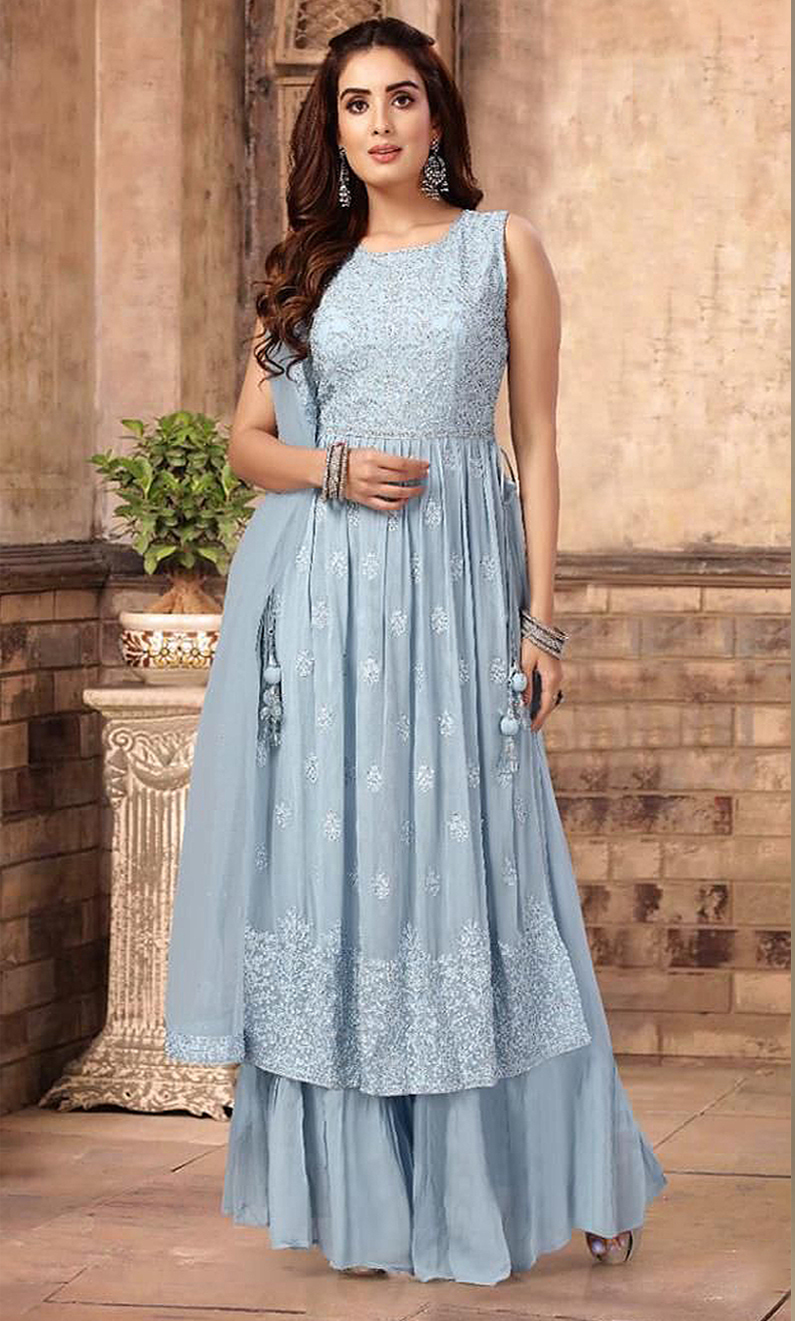
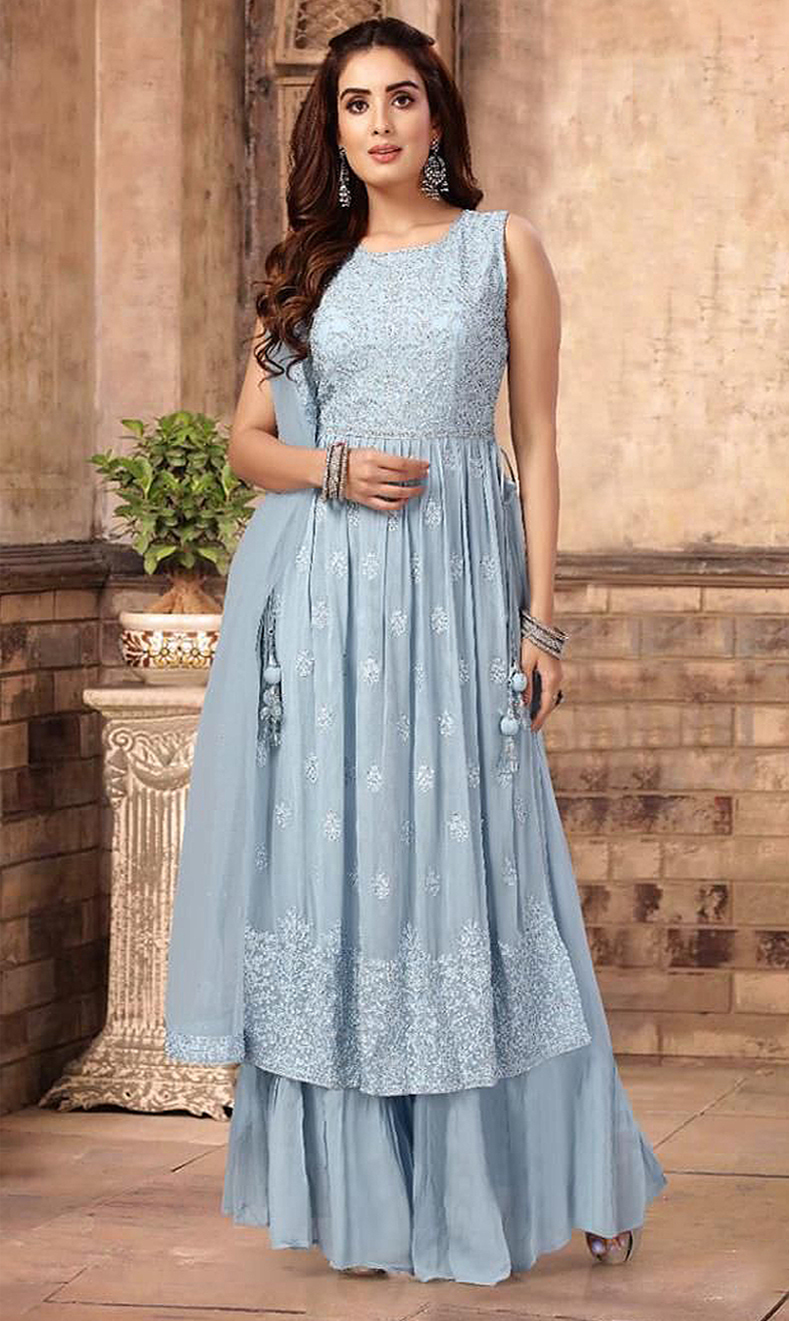
Adding more images, slider to big, 11th commit

diff --git a/index.html b/index.html
@@ -1,4 +1,5 @@
 
+
 <html lang="en">
 <head>
     <meta charset="UTF-8">
@@ -126,6 +127,10 @@
             text-align: center;
         }
 
+        #image {
+            transition: opacity 1s ease-in-out; /* Transition effect: 0.5 seconds with ease-in-out timing */
+        }
+
     </style>
 </head>
 
@@ -217,8 +222,28 @@
     </script>
 
     <div class="hide-on-small-only">
-        <img src="img/1.jpg" style="width: 100%; object-fit: cover;">
+        <img id="image" src="img/1.jpg" style="width: 100%; object-fit: cover;">
     </div>
+
+    <script>
+        var images = ["img/2.jpg", "img/1.jpg",]; // Array of image paths
+        var currentIndex = 0; // Current index of the displayed image
+
+        function changeImage() {
+            var imageElement = document.getElementById("image");
+            imageElement.style.opacity = 0; // Set opacity to 0 for fade-out effect
+
+            setTimeout(function() {
+                imageElement.src = images[currentIndex]; // Set the source to the current image path
+                imageElement.style.opacity = 1; // Set opacity to 1 for fade-in effect
+                currentIndex = (currentIndex + 1) % images.length; // Move to the next image index in a loop
+            }, 1000); // Delay of 500 milliseconds (0.5 seconds) before changing the image
+
+            setTimeout(changeImage, 5000); // Call the function again after a delay of 4000 milliseconds (4 seconds)
+        }
+
+        setTimeout(changeImage, 5000); // Initial call to start the loop after 4 seconds
+    </script>
 
     <div class="slider hide-on-med-and-up" style="margin-top:-75px;">
         <ul class="slides" style="transform: scale(0.7);">
@@ -234,12 +259,24 @@
             <li>
                 <img src="img/1.4.jpg">
             </li>
+            <li>
+                <img src="img/2.1.jpg">
+            </li>
+            <li>
+                <img src="img/2.2.jpg">
+            </li>
+            <li>
+                <img src="img/2.3.jpg">
+            </li>
+            <li>
+                <img src="img/2.4.jpg">
+            </li>
         </ul>
     </div>
 
     <h5 class="center hide-on-small-only"style="font-family: Varela Round; margin-top:25px;"> Shop the latest collection now !</h5>
 
-    <p class="center hide-on-med and up"style="font-family: Varela Round; margin-top:-95px; font-size:16.5px;"> Shop the latest collection now !</p>
+    <p class="center hide-on-med-and-up"style="font-family: Varela Round; margin-top:-95px; font-size:16.5px;"> Shop the latest collection now !</p>
 
 
 
@@ -309,7 +346,7 @@
             indicators: false,
             height: 700,
             transition:500,
-            interval: 4000,
+            interval: 5000,
             });
         });
     </script>
